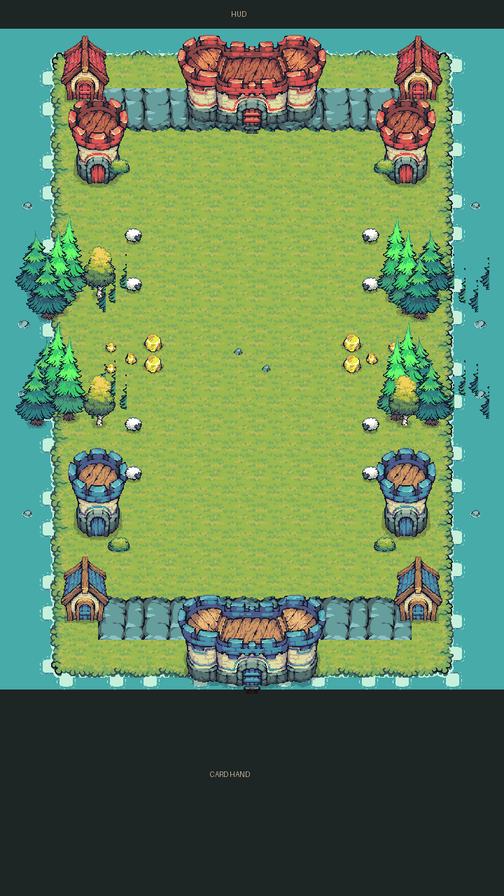
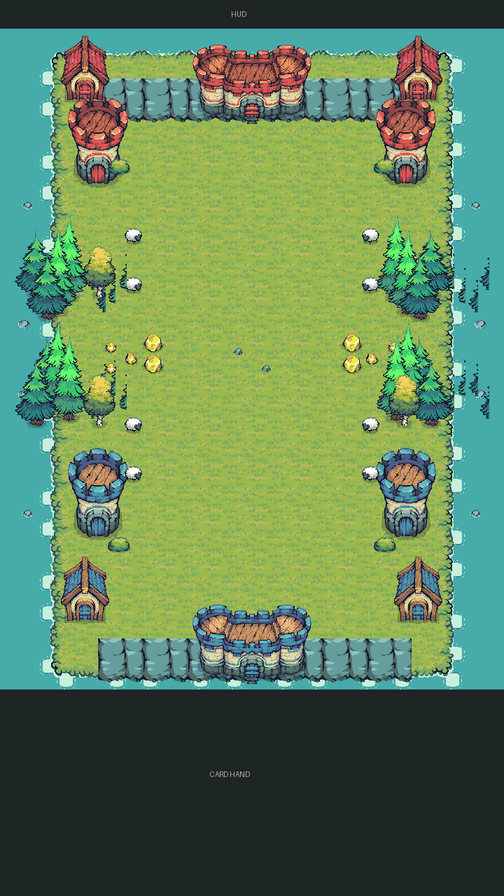
arena: castle -20% (0.544) + perspective-locked cliff walls (user feedback)
1. Castle 0.68 -> 0.544 (user: buildings placed beside the castle overlapped
   its body — see Desktop screenshot 2026-07-08 1.49AM). Wall rows realigned so
   each stone row's bottom edge = its castle's base. Detector band recalibrated
   105..135px (measured 118px, spec ~119).

2. PERSPECTIVE LOCK (user art-direction catch): the 2.5D camera does not flip
   with the layout — the stone cliff "bar" face must ALWAYS point south with
   only a thin rim line on top denoting height, on BOTH halves. Removed the
   flip_v mirroring of the player wall; the blue castle now sits on its own
   south-facing terrace at the island's bottom rim (Tiny Swords reference).
   Rule codified: mirror POSITIONS, never ORIENTATIONS (design-flow.md,
   lessons.md 2026-07-08c); compositor invariant updated.

Gate: parity detectors 15/15 (castle 118px in band), L0 sim 395/0,
determinism golden 6/0.

Changed region(s): [[0.1786, 0.6562, 0.8333, 0.7812], [0.2083, 0.0312, 0.8036, 0.1562]]

diff --git a/castle_clash/tools/compose_arena.py b/castle_clash/tools/compose_arena.py
@@ -7,11 +7,14 @@ the pixel spec → the game PORTS the LAYOUT tables below verbatim → parity
 detectors in tests/test_screen_layout.gd pin it.
 
 INVARIANTS (user feedback 2026-07-08):
-  * SYMMETRY BY CONSTRUCTION — decorations are authored for the LEFT side of
-    the ENEMY (top) half only. Right side = x-mirror (720-x, same y). Player
-    half = y-mirror about FLIP_PIVOT (1040-y). Multiplayer perspective flip
-    (sim_to_screen Y-reflection) therefore shows both players an identical
-    arena. Never hand-place an unmirrored decoration.
+  * SYMMETRY BY CONSTRUCTION, PERSPECTIVE-LOCKED — decorations are authored
+    for the LEFT side of the ENEMY (top) half only. Right side = x-mirror
+    (720-x, same y). Player half = y-mirror about FLIP_PIVOT (1040-y).
+    POSITIONS mirror; ORIENTATIONS never do: the 2.5D camera does not flip
+    with the layout, so elevation/cliff tiles keep their stone "bar" face
+    pointing SOUTH (screen-down) on BOTH halves, with only the thin rim line
+    on top denoting height (user feedback 2026-07-08, Tiny Swords reference).
+    Never flip_v a terrain or building tile.
   * Y-SORTED RENDERING — decorations paint back-to-front by ground-y exactly
     like the game's y-sorted DecorationLayer, so layering bugs (sheep floating
     on trees) are visible HERE before approval, not after the port.
@@ -92,11 +95,12 @@ FOAM = TER / "Water Foam.png"
 PLAT_X0, PLAT_X1 = 72, 648
 PLAT_Y0, PLAT_Y1 = 72, 968
 
-CASTLE_SCALE = 0.68                  # 0.296 * 720 / 312px content (measured)
+CASTLE_SCALE = 0.544                 # 0.68 measured mockup fraction x0.8 (user: placed buildings overlapped the castle)
 CASTLE_ANCHOR = (360, 120)           # sim anchor (enemy); player = y-mirror
 
 # Fortress dressing (enemy half; x already centered/paired where needed)
-WALL_Y = 126                         # wall row bottom (190) = castle base ✓
+WALL_Y_ENEMY = 112                   # stone bottom (176) = red castle base at 0.544
+WALL_Y_PLAYER = 912                  # stone bottom (976) = blue castle base — face STILL south
 WALL_X = (140, 580)
 TOWER_SCALE, TOWER_GY = 0.72, 268    # flanking towers at x=140 / 720-140
 HOUSE = ("House1.png", 122, 148, 0.62)   # corner house; mirrored 4x
@@ -149,14 +153,13 @@ def render(show_grid: bool = False) -> Image.Image:
                                 (PLAT_X0 + c * TS, PLAT_Y0 + r * TS))
 
     # Per-half fortress: stone wall row, then castle/towers/houses.
-    stone = tile_of(GRASS, 6, 4)
+    stone = tile_of(GRASS, 6, 4)  # stone face w/ rim line on top — NEVER flipped
     for team, flip in (("red", False), ("blue", True)):
         bdir = A / "buildings" / team
-        wy = WALL_Y if not flip else mirror_y(WALL_Y) - TS
-        wt = stone.transpose(Image.FLIP_TOP_BOTTOM) if flip else stone
+        wy = WALL_Y_ENEMY if not flip else WALL_Y_PLAYER
         x = WALL_X[0]
         while x < WALL_X[1]:
-            img.alpha_composite(wt, (x, round(wy)))
+            img.alpha_composite(stone, (x, round(wy)))
             x += TS
         cy = CASTLE_ANCHOR[1] if not flip else mirror_y(CASTLE_ANCHOR[1])
         blit(img, load(bdir / "Castle.png"), CASTLE_ANCHOR[0], cy,

diff --git a/tasks/lessons.md b/tasks/lessons.md
@@ -209,3 +209,18 @@ flow." Forensic audit (wf_772ab315) confirmed it.
    Author one quadrant; generate mirrors; assert the invariant (platform spans mirror about
    FLIP_PIVOT_Y). Matters doubly here: the multiplayer perspective flip means asymmetry =
    different-looking arenas for the two players.
+
+---
+
+## Lesson (2026-07-08c) — 2.5D perspective orientation is not mirrorable
+
+**Context**: To mirror the player-half fortress wall I vertically flipped the stone cliff
+tile. User caught it: in Tiny Swords' fake-3D top-down perspective, the stone "bar" face of
+any elevation ALWAYS points SOUTH (screen-down) — you see cliff faces below plateaus, never
+above them; a plateau's top boundary is only a thin rim line. A flipped cliff tile is
+perspective-illegal and reads instantly wrong.
+
+**Rule — mirror positions, never orientations.** Layout symmetry = mirrored coordinates.
+Tile/sprite orientation is owned by the camera perspective, which does not flip with the
+layout. Never flip_v elevation, cliff, or building art. "The bar-like edge of the cliff at
+the bottom of the castle, wherever the player is."

diff --git a/tasks/design-flow.md b/tasks/design-flow.md
@@ -75,6 +75,10 @@ the gap was never the assets — it was the workflow:
   (left side of the enemy half); the tool generates x/y mirrors and asserts the
   platform mirrors about the flip pivot. Multiplayer perspective flip then
   guarantees identical views for both players — hand-mirroring drifts.
+- **Mirror positions, never orientations (2.5D perspective lock).** The camera's
+  fake-3D does not flip with the layout: elevation/cliff stone faces always
+  point SOUTH, rim lines on top. Never flip_v terrain or building art when
+  mirroring — a flipped cliff is perspective-illegal (user caught this 2026-07-08).
 
 ## Tooling
 